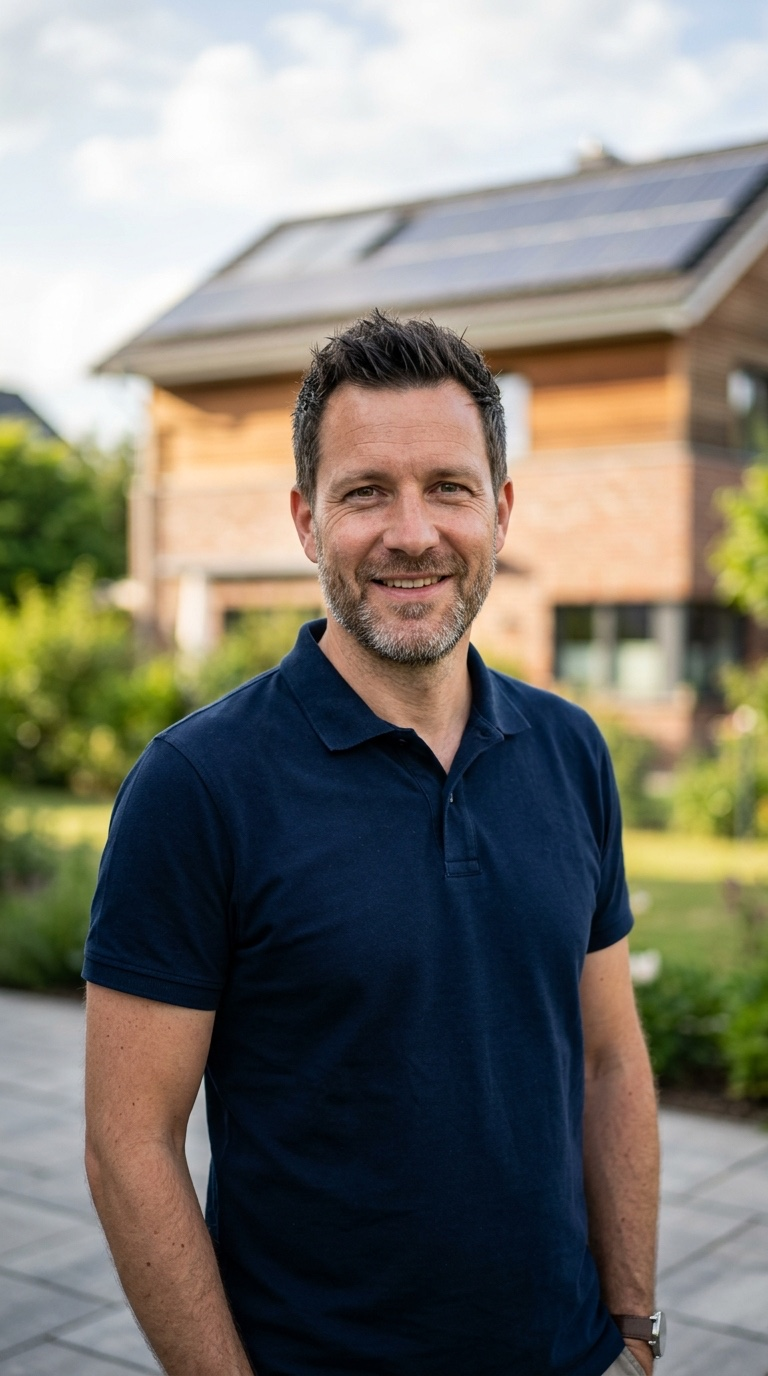
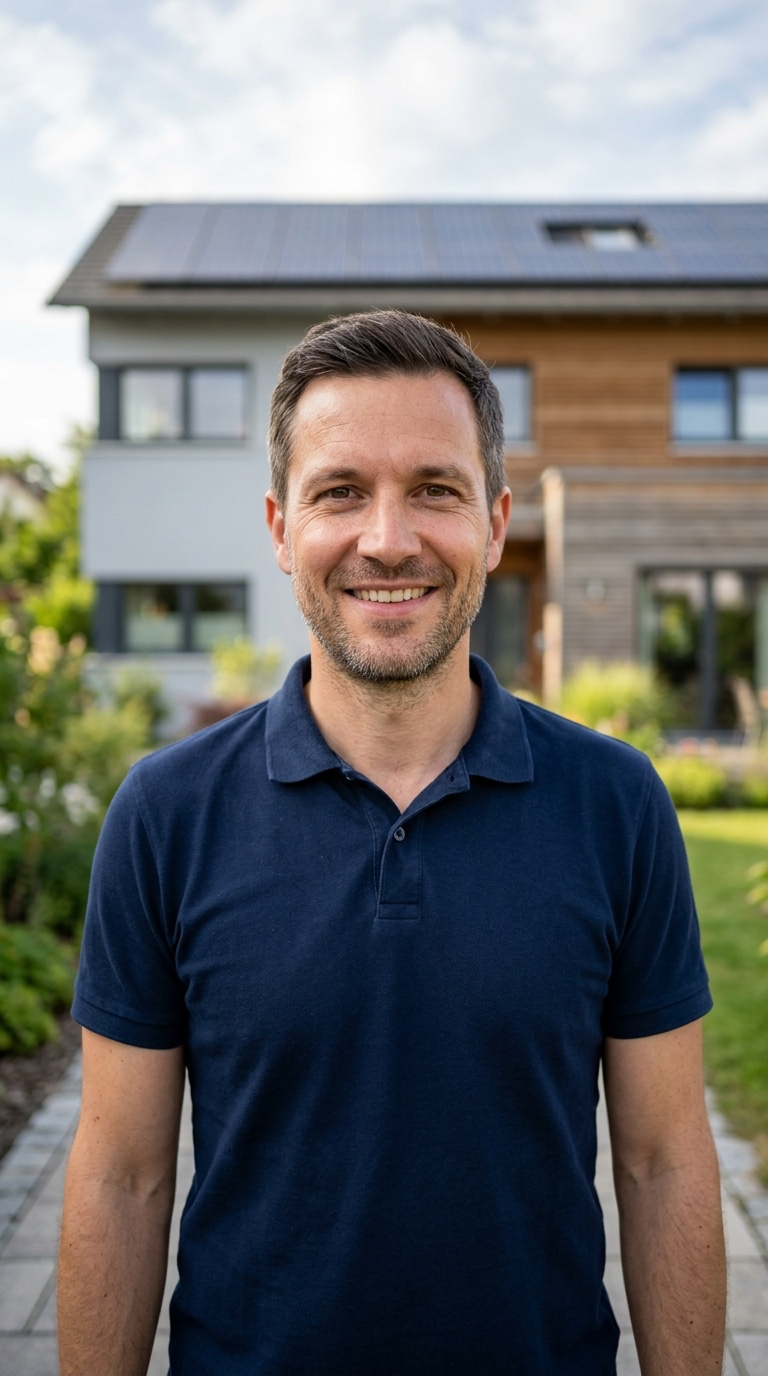
fix: Hero-Portrait neu + Bildausrichtung korrigiert

diff --git a/home.js b/home.js
@@ -414,7 +414,7 @@ const Hero = () => {
   }, /*#__PURE__*/React.createElement("img", {
     src: "img/portrait.jpg",
     alt: "Gegam Sargsian, Inhaber von SolaWert",
-    className: "w-full h-[440px] md:h-[560px] object-cover object-top"
+    className: "w-full h-[440px] md:h-[560px] object-cover object-[center_22%]"
   }), /*#__PURE__*/React.createElement("div", {
     className: "absolute inset-x-0 bottom-0 h-1/3 bg-gradient-to-t from-black/55 to-transparent"
   }), /*#__PURE__*/React.createElement("div", {
@@ -886,7 +886,7 @@ const About = () => /*#__PURE__*/React.createElement("section", {
 }, /*#__PURE__*/React.createElement("img", {
   src: "img/portrait.jpg",
   alt: "Gegam Sargsian",
-  className: "w-14 h-14 rounded-full object-cover object-top"
+  className: "w-14 h-14 rounded-full object-cover object-[center_20%]"
 }), /*#__PURE__*/React.createElement("div", null, /*#__PURE__*/React.createElement("div", {
   className: "font-heading font-bold text-content"
 }, "Gegam Sargsian"), /*#__PURE__*/React.createElement("div", {